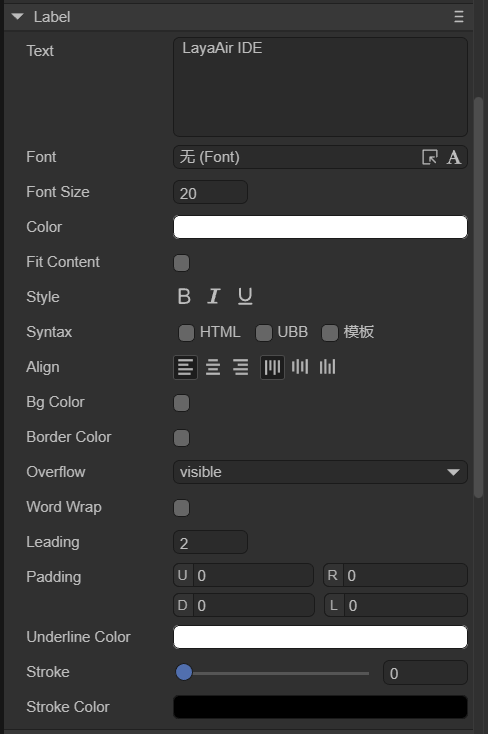
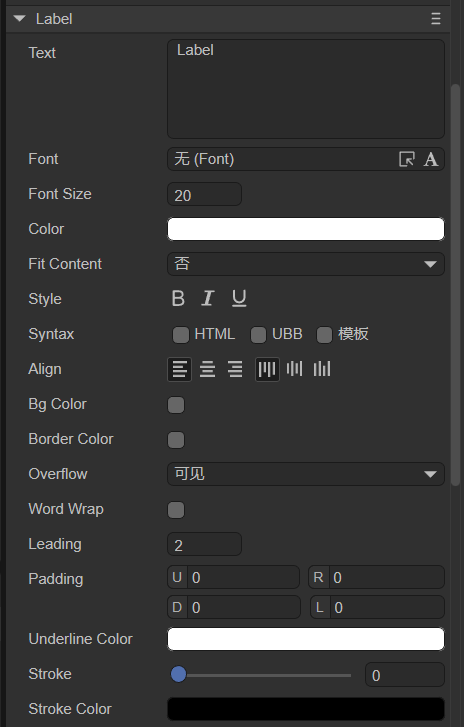
“显示文本组件”、“输入文本组件”、“多行输入文本组件”的overflow属性更改

diff --git a/IDE/uiEditor/uiComponent/TextInput/readme.md b/IDE/uiEditor/uiComponent/TextInput/readme.md
@@ -29,7 +29,7 @@
 | align          | 对齐方式，水平对齐(align)分别是left（居左对齐）、center（居中对齐）、right（居右对齐）;垂直对齐(valign)分别是top（居顶对齐）、middle（居中对齐）、bottom（居底对齐） |
 | bgColor        | 背景颜色，勾选后可以直接输入颜色值，例如：`#ffffff`，也可以点击输入条右侧的拾色器选取颜色 |
 | bordercolor    | 文本边框颜色，勾选后可以直接输入颜色值，例如：`#ffffff`，也可以点击输入条右侧的拾色器选取颜色 |
-| overflow       | 文本溢出处理，共有三种模式。visible：不进行任何裁切。hidden:不显示超出文本域的字符。scroll（默认模式）:不显示文本域外的字符像素，并且支持scroll接口 |
+| overflow       | 文本溢出处理，共有五种模式。visible（可见）：不进行任何裁切。hidden（隐藏）：不显示超出文本域的字符。scroll（滚动）：默认模式，不显示文本域外的字符像素，并且支持scroll接口。shrink（自动收缩）：超出文本域时，文本整体缩小以适应文本框。ellipsis（显示省略号）：超出文本域时，文本被截断，并且文本最后显示省略号 |
 | wordWrap       | 是否自动换行，布尔值选项，默认为`false`，选择`true`可以开启自动换行 |
 | leading        | 垂直行间距，当开启自动换行时，文本内容多行时有效。间距以像素为单位，输入正整数即可 |
 | padding        | 文本边距，以像素为单位，由4个整数值组成。“U”表示距上边框的距离、”R“表示距右边框的距离、”D“表示距下边框的距离、”L”表示距左边框的距离 |
